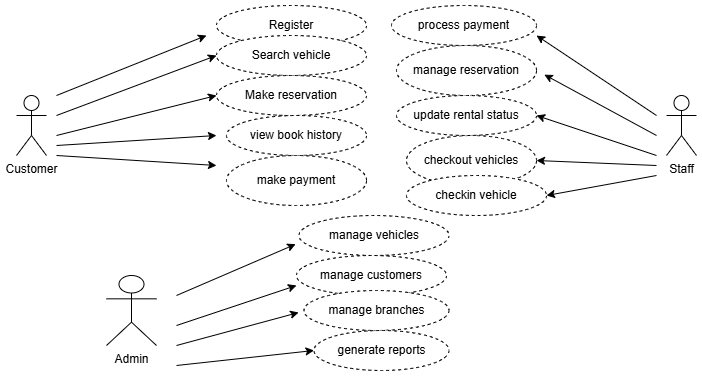
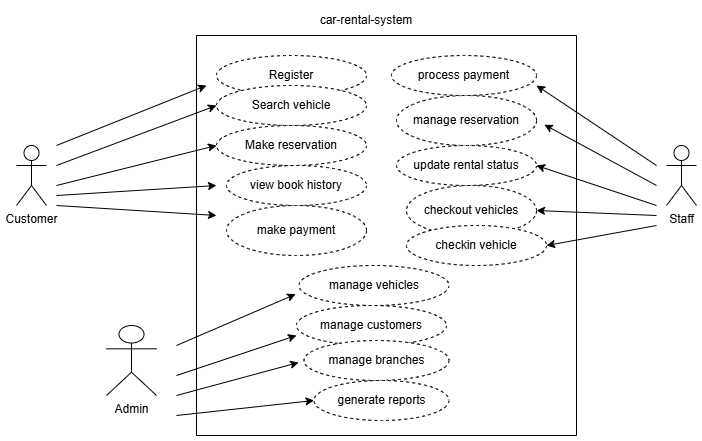
updated

diff --git a/docs/Acceptance_Criteria.md b/docs/Acceptance_Criteria.md
@@ -26,7 +26,7 @@ so that I can hand it over to the customer.
 ## User Story 3: Vehicle check-in
 
 **Story:**
-As a staff member, I want to check in a vehicle,
+As a staff member, I want to check in a vehicle 
 so that I can complete the rental process.
 
 **Acceptance Criteria:**